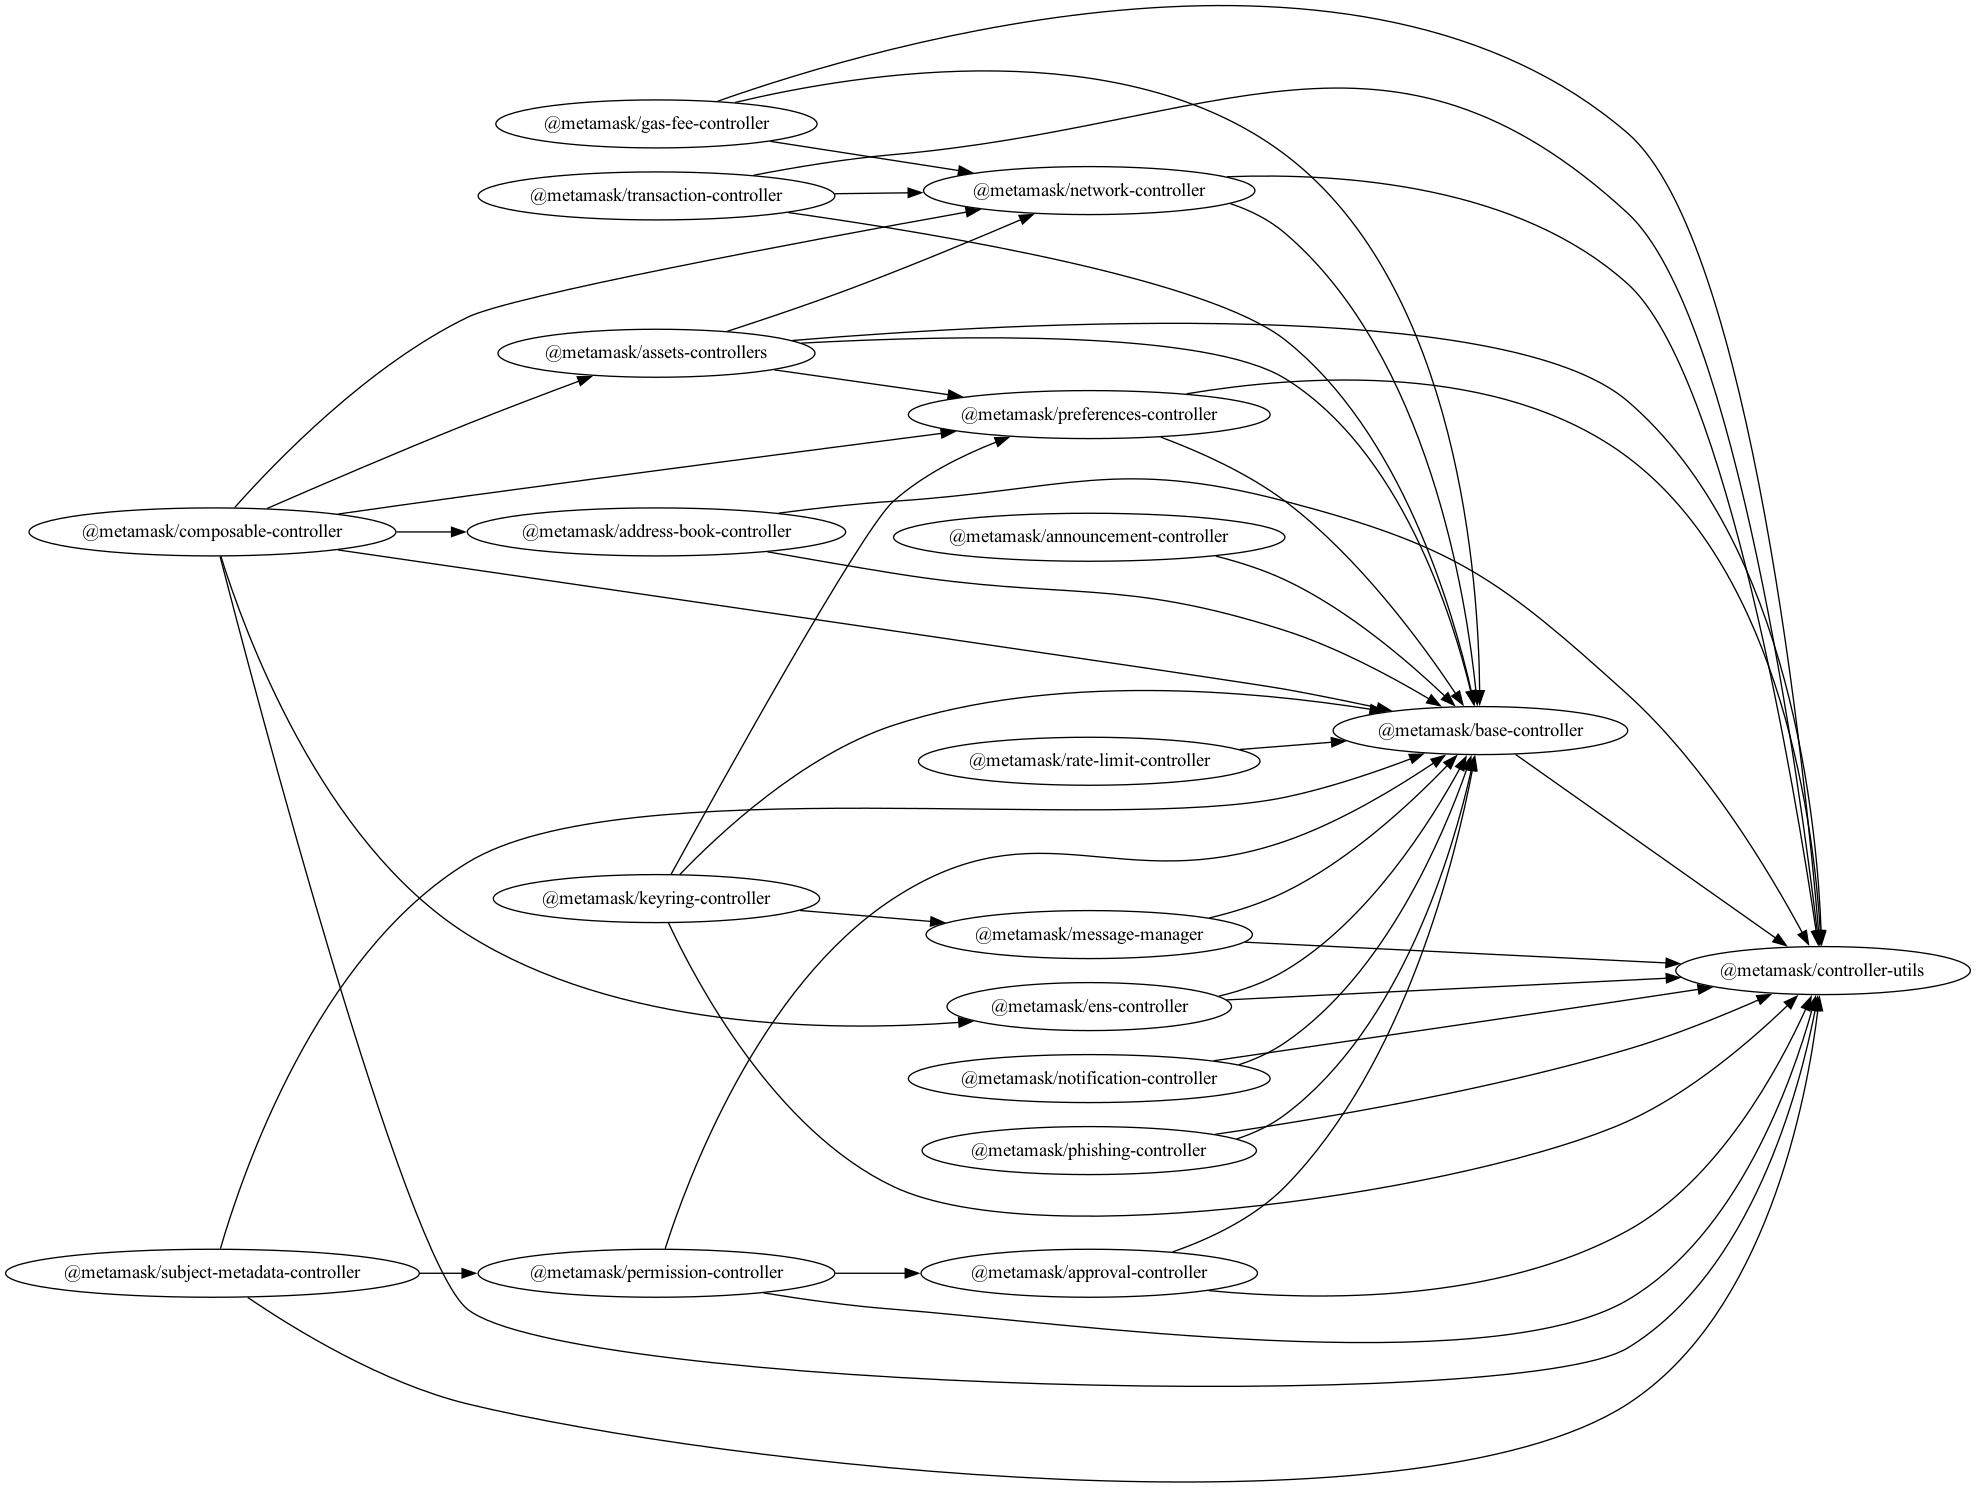
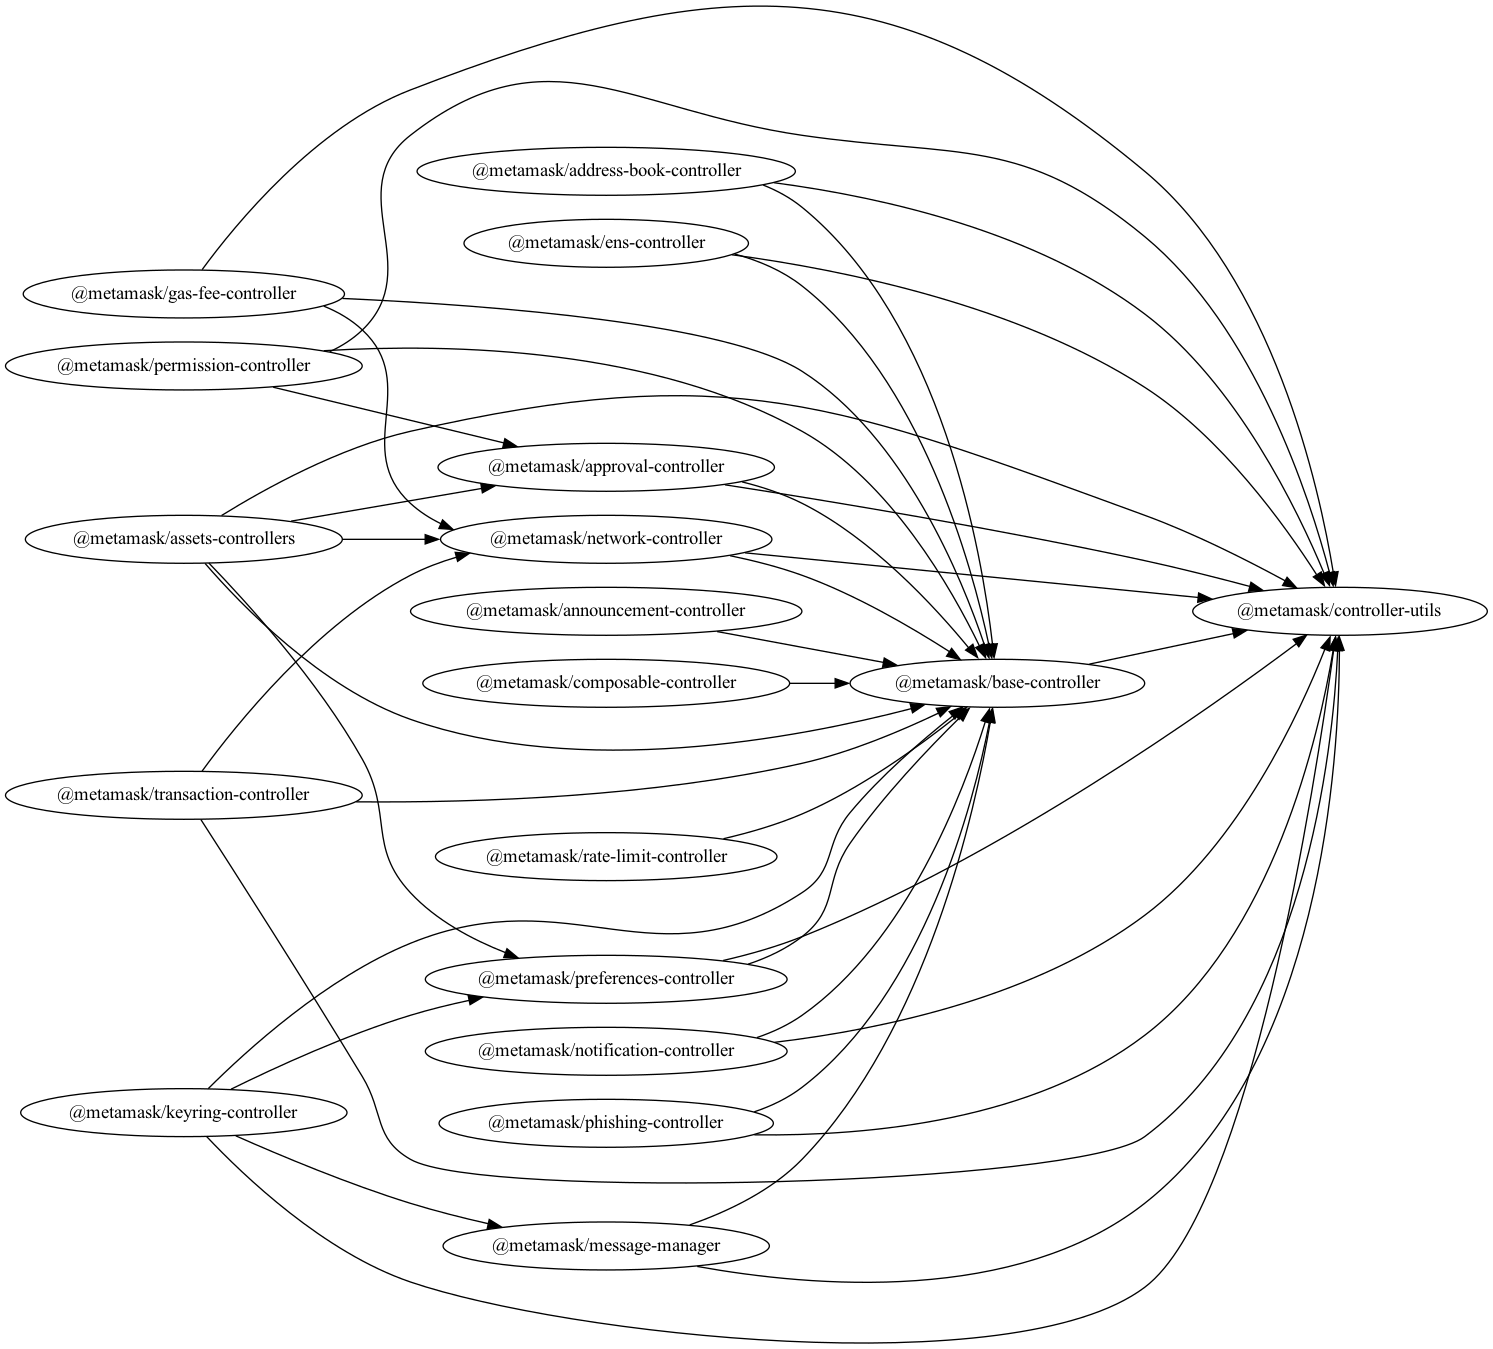
BREAKING: Move `SubjectMetadataController` to permission-controller package (#1234)
* Move SubjectMetadataController to permission-controller package

* Update imports

* Update dep graph

diff --git a/packages/permission-controller/src/SubjectMetadataController.ts b/packages/permission-controller/src/SubjectMetadataController.ts
@@ -4,11 +4,11 @@ import {
   BaseControllerV2,
   RestrictedControllerMessenger,
 } from '@metamask/base-controller';
-import type {
+import {
   GenericPermissionController,
-  PermissionSubjectMetadata,
   HasPermissions,
-} from '@metamask/permission-controller';
+  PermissionSubjectMetadata,
+} from './PermissionController';
 
 const controllerName = 'SubjectMetadataController';
 

diff --git a/packages/permission-controller/src/SubjectMetadataController.test.ts b/packages/permission-controller/src/SubjectMetadataController.test.ts
@@ -1,6 +1,6 @@
 import { Json } from '@metamask/controller-utils';
 import { ControllerMessenger } from '@metamask/base-controller';
-import { HasPermissions } from '@metamask/permission-controller';
+import { HasPermissions } from './PermissionController';
 import {
   SubjectMetadataController,
   SubjectMetadataControllerActions,

diff --git a/packages/permission-controller/src/index.ts b/packages/permission-controller/src/index.ts
@@ -4,3 +4,4 @@ export * from './Permission';
 export * from './PermissionController';
 export * from './utils';
 export * as permissionRpcMethods from './rpc-methods';
+export * from './SubjectMetadataController';

diff --git a/README.md b/README.md
@@ -23,7 +23,6 @@ This repository houses the following packages:
 - [`@metamask/phishing-controller`](packages/phishing-controller)
 - [`@metamask/preferences-controller`](packages/preferences-controller)
 - [`@metamask/rate-limit-controller`](packages/rate-limit-controller)
-- [`@metamask/subject-metadata-controller`](packages/subject-metadata-controller)
 - [`@metamask/transaction-controller`](packages/transaction-controller)
 
 Or, in graph form [^fn1]:
